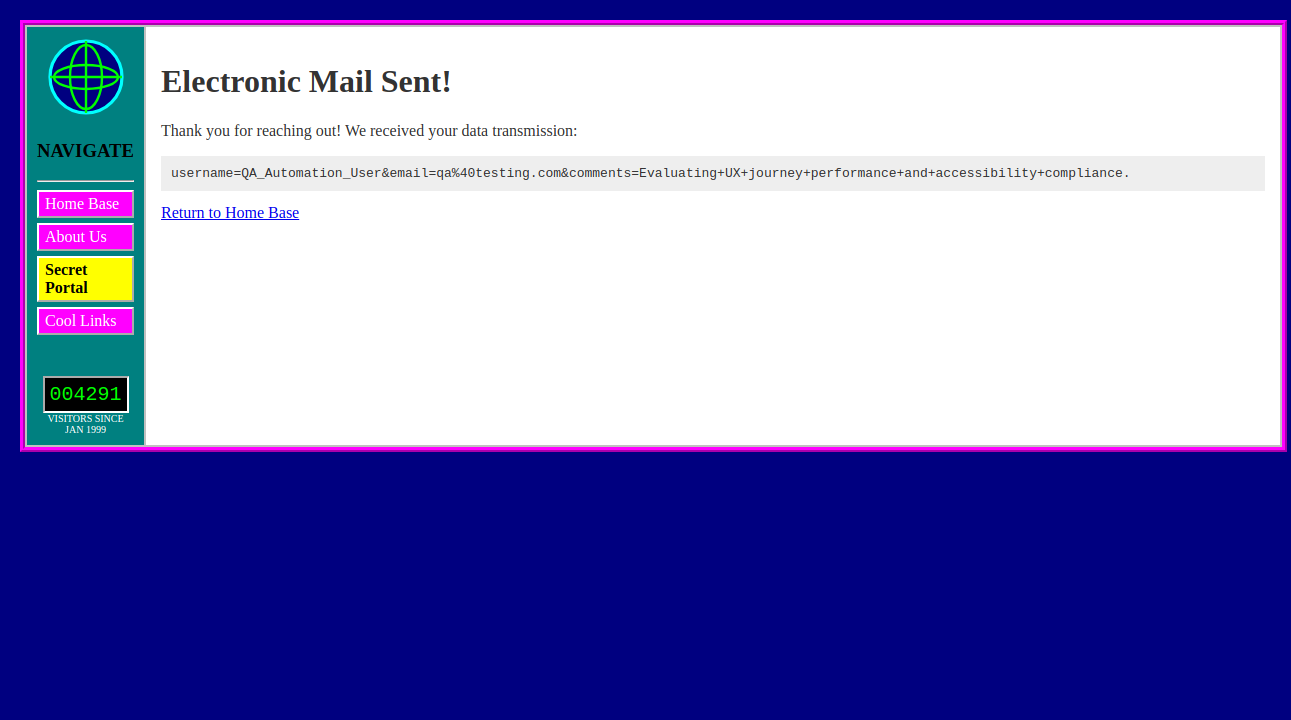
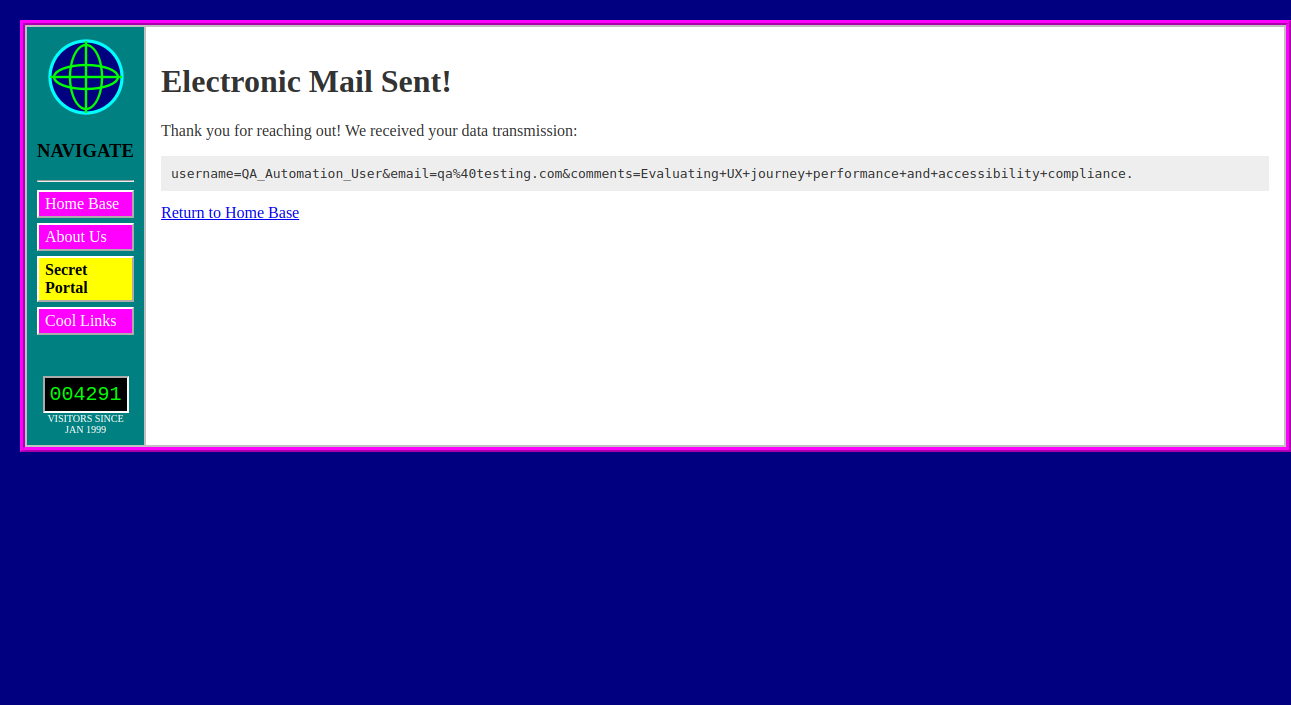
feat(testing,mcp): support GUI mode & add local MCP config
- Make Playwright browser headless mode and slowMo delay configurable via system properties in MainTestPipeline
- Add .mcp.json configuration file for Antigravity local project integration
- Update automated test execution reports and screenshot artifacts

Changed region(s): [[0.0, 0.0312, 1.0, 0.6553], [0.1239, 0.0936, 0.8675, 0.2496]]

diff --git a/testing-scenarios/src/main/java/com/demo/testing/MainTestPipeline.java b/testing-scenarios/src/main/java/com/demo/testing/MainTestPipeline.java
@@ -27,9 +27,12 @@ public class MainTestPipeline {
             server.start();
             LOGGER.info("Server active at " + BASE_URL);
 
-            // 2. Launch Playwright Headless Browser
+            // 2. Launch Playwright Browser (Supports -Dheadless=true/false)
+            boolean headless = Boolean.parseBoolean(System.getProperty("headless", "false"));
+            double slowMo = Double.parseDouble(System.getProperty("slowMo", "500"));
+            LOGGER.info("Launching Playwright Browser (Headless: " + headless + ", SlowMo delay: " + slowMo + "ms)...");
             playwright = Playwright.create();
-            browser = playwright.chromium().launch(new BrowserType.LaunchOptions().setHeadless(true));
+            browser = playwright.chromium().launch(new BrowserType.LaunchOptions().setHeadless(headless).setSlowMo(slowMo));
             Page page = browser.newPage();
 
             // 3. Execute Functional Tests

diff --git a/reports/ux_journey_report.md b/reports/ux_journey_report.md
@@ -1,7 +1,7 @@
 # UX Journey Test Report
 
 - **Journey:** Home -> About -> Home -> Contact -> Submit Form -> Screenshot
-- **Total Duration:** 666 ms
+- **Total Duration:** 6883 ms
 - **Total Interactions:** 8
 - **Failures:** 0
 
@@ -9,12 +9,12 @@
 
 | Step | Target / Artifact | Status | Latency (ms) |
 |------|-------------------|--------|--------------|
-| 1. Open Home Page | http://localhost:8080/ | Success | 103 |
-| 2. Click About Us Link | http://localhost:8080/about | Success | 72 |
-| 3. Return to Home Page | http://localhost:8080/ | Success | 75 |
-| 4. Click Secret Portal (Contact) | http://localhost:8080/contact | Success | 115 |
-| 5. Fill Contact Form Fields | http://localhost:8080/contact | Success | 116 |
-| 6. Submit Form | http://localhost:8080/contact | Success | 94 |
+| 1. Open Home Page | http://localhost:8080/ | Success | 870 |
+| 2. Click About Us Link | http://localhost:8080/about | Success | 868 |
+| 3. Return to Home Page | http://localhost:8080/ | Success | 873 |
+| 4. Click Secret Portal (Contact) | http://localhost:8080/contact | Success | 869 |
+| 5. Fill Contact Form Fields | http://localhost:8080/contact | Success | 2442 |
+| 6. Submit Form | http://localhost:8080/contact | Success | 851 |
 | 7. Capture Proof Screenshot | reports/ux_journey_screenshot.png | Saved | 0 |
 
 ![UX Journey Proof Screenshot](ux_journey_screenshot.png)

diff --git a/reports/performance_report.md b/reports/performance_report.md
@@ -2,7 +2,7 @@
 
 | Page Path | Load Time (ms) | DOM Content Loaded (ms) | FCP (ms) | Total Resources |
 |-----------|----------------|--------------------------|----------|-----------------|
-| /         | 89 | 46 | 0 | 3 |
-| /about         | 90 | 47 | 0 | 3 |
-| /contact         | 87 | 44 | 0 | 2 |
-| /links         | 86 | 44 | 0 | 2 |
+| /         | 69 | 25 | 81 | 4 |
+| /about         | 51 | 12 | 71 | 4 |
+| /contact         | 51 | 13 | 82 | 3 |
+| /links         | 50 | 13 | 72 | 3 |
